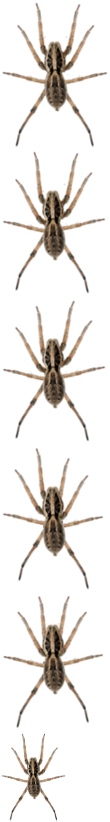
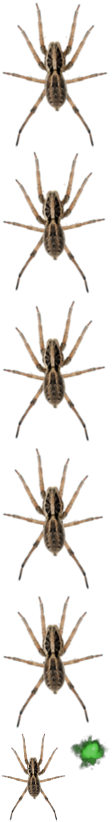
Spiders are now able to fire at the cockroach

diff --git a/src/js/game/enemies.js b/src/js/game/enemies.js
@@ -3,12 +3,17 @@
 */
 ludumDare.Enemies = function () {
   this.spiderSpeed = 50;
+  this.spiderChargeSpeed = 300;
+  this.chargeDistance = 400;
+  this.fireRate = 3500;
+  this.projectileSpeed = 500;
 };
 
 ludumDare.Enemies.prototype = {
 
    createEnemies: function() {
-      ludumDare.enemies = ludumDare.phaser.add.group();    
+      ludumDare.enemies = ludumDare.phaser.add.group();
+      ludumDare.enemyFire = ludumDare.phaser.add.group();          
    }, 
 
    spawnSpider: function( xLoc, yLoc ) {
@@ -23,11 +28,13 @@ ludumDare.Enemies.prototype = {
                         "walk_3.png",
                         "walk_5.png",
                         "walk_6.png"
-                      ], 6, true);
+                      ], 12, true);
 
       enemyObj.curFacing = 'north';
       enemyObj.body.velocity.y = this.spiderSpeed * -1;
       enemyObj.anchor.setTo(0.5, 0.6);
+      enemyObj.lastFire = 0;
+
       this.spiderYBounds( enemyObj, 30, 50 );      
 
       enemyObj.play("walk");
@@ -40,8 +47,6 @@ ludumDare.Enemies.prototype = {
         var _self = this;
 
         ludumDare.phaser.physics.arcade.collide( activeEnemy, ludumDare.levelMap.walls, function( enemyObj ) {
-
-          console.log(enemyObj.body.velocity);
 
           // Randomise the turn direction a little bit
           var turnDir = Math.round(Math.random());
@@ -79,12 +84,77 @@ ludumDare.Enemies.prototype = {
               } 
             break;                       
           }
-
-          console.log( enemyObj.curFacing );
         });
+
+        // Adjust the enemy spped if the play is near by     
+        var playerDistance = ludumDare.phaser.physics.arcade.distanceBetween( activeEnemy, ludumDare.playerObj );
+
+        if ( playerDistance < this.chargeDistance ) {   
+          // this.enemySpeed( activeEnemy );      
+
+          var radianBetween = ludumDare.phaser.math.angleBetween( activeEnemy.x, activeEnemy.y, ludumDare.playerObj.x, ludumDare.playerObj.y );
+          var angleBetween = ludumDare.phaser.math.radToDeg( radianBetween );
+
+          switch ( activeEnemy.curFacing ) {
+            case 'north':
+              if ( angleBetween > -120 && angleBetween < -70 ) {
+                var fireLoc = { 'x' : activeEnemy.x, 'y' : (activeEnemy.y - 50) }
+                this.enemyFire( activeEnemy, radianBetween, fireLoc );
+              }
+            break;
+
+            case 'east':
+              if ( angleBetween > -30 && angleBetween < 30 ) {
+                var fireLoc = { 'x' : (activeEnemy.x + 50), 'y' : activeEnemy.y }                
+                this.enemyFire( activeEnemy, radianBetween, fireLoc );
+              }
+            break;
+
+            case 'west':
+              if ( angleBetween < -160 && angleBetween < -100 ) {
+                var fireLoc = { 'x' : (activeEnemy.x - 50), 'y' : activeEnemy.y }                
+                this.enemyFire( activeEnemy, radianBetween, fireLoc );
+              }
+            break;
+
+            case 'south':
+              if ( angleBetween < 120 && angleBetween > 70 ) {
+                var fireLoc = { 'x' : activeEnemy.x, 'y' : (activeEnemy.y + 50) }
+                this.enemyFire( activeEnemy, radianBetween, fireLoc );
+              }
+            break;
+          }
+        }
 
       }, this)
     },
+
+    /**
+    * Shoot some venom at the player
+    *
+    * @param object enemyObj
+    * @param integer targetAngle
+    * @param object fireLoc
+    */
+    enemyFire: function( enemyObj, targetRadian, fireLoc ) {
+      var attackDiff = ( ludumDare.phaser.time.totalElapsedSeconds() - enemyObj.lastFire ) * 1000;
+
+      if ( attackDiff > this.fireRate ) {
+        enemyObj.lastFire = ludumDare.phaser.time.totalElapsedSeconds();
+
+        var enemyProjectile = ludumDare.phaser.add.sprite( fireLoc.x, fireLoc.y, 'spiderSprite', "venom.png");
+
+        ludumDare.phaser.physics.enable( enemyProjectile, Phaser.Physics.ARCADE);
+        enemyProjectile.anchor.setTo(0.5, 0.5);
+
+        enemyProjectile.outOfBoundsKill = true;
+
+        ludumDare.enemyFire.add( enemyProjectile );     
+
+        enemyProjectile.body.acceleration.x = Math.cos( targetRadian ) * this.projectileSpeed;
+        enemyProjectile.body.acceleration.y = Math.sin( targetRadian ) * this.projectileSpeed;         
+      }
+    }, 
 
     turnNorth: function( enemyObj ) {
       enemyObj.curFacing = 'north';
@@ -127,6 +197,32 @@ ludumDare.Enemies.prototype = {
         enemyObj.body.velocity.y = 0;
         enemyObj.angle = -90;              
         enemyObj.body.velocity.x = this.spiderSpeed * -1;
+      }
+    },
+
+    /**
+    * Set the speed of the enemy / charge if near the player
+    *
+    * @param object enemyObj
+    **/
+    enemySpeed: function( enemyObj ) {
+
+      switch ( enemyObj.curFacing ) {
+        case "north":
+          enemyObj.body.velocity.y = this.spiderChargeSpeed * -1;
+        break;
+
+        case "east":
+          enemyObj.body.velocity.x = this.spiderChargeSpeed;
+        break;
+
+        case "west":
+          enemyObj.body.velocity.x = this.spiderChargeSpeed * -1;
+        break;
+
+        case "south":
+          enemyObj.body.velocity.y = this.spiderChargeSpeed;
+        break;
       }
     },
 

diff --git a/src/js/states/game.js b/src/js/states/game.js
@@ -26,8 +26,6 @@ ludumDare.Game.prototype = {
 
         this.mapLocations = this.activeClasses.mapLib.createMap();
 
-        console.log( this.mapLocations );
-
         this.activeClasses.playerLib.characterSetup( this.mapLocations.player.x, this.mapLocations.player.y );
         this.activeClasses.playerLib.playerYBounds();
 
@@ -63,6 +61,11 @@ ludumDare.Game.prototype = {
             playerObj.body.velocity.y = 0;
 
             _self.finishLevel();
+        });
+
+        ludumDare.phaser.physics.arcade.overlap( ludumDare.enemyFire, ludumDare.levelMap.walls, function( enemyFire ) {
+            // Add in a sound effect of similar here 
+            enemyFire.kill();
         });
 
         ludumDare.levelExit 

diff --git a/src/js/game/map.js b/src/js/game/map.js
@@ -11,7 +11,7 @@ ludumDare.Map = function () {
     this.lastRoomCenter = {x: 0, y: 0};
     this.numRooms = 0;
     this.numTiles = 0;
-    this.tileSize = 96;
+    this.tileSize = 128;
 
     this.numEnemies = 0;
     this.maxEnemies = 5;
@@ -21,7 +21,7 @@ ludumDare.Map = function () {
 
     this.player = {};
 
-    this.mapSize = { x: 3072, y: 2048 }
+    this.mapSize = { x: 3072, y: 3072 }
 
     this.mapLocations = {};
     this.mapLocations.enemies = [];
